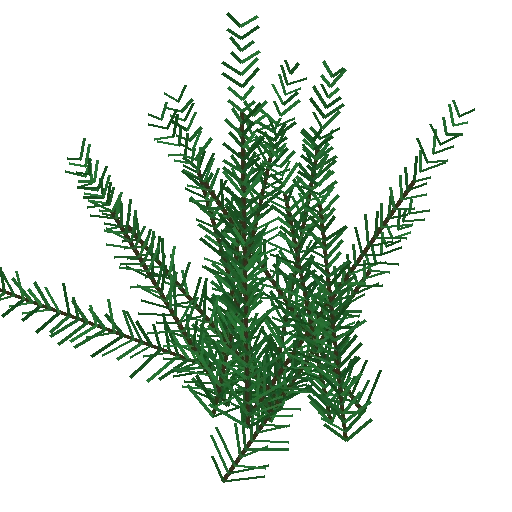
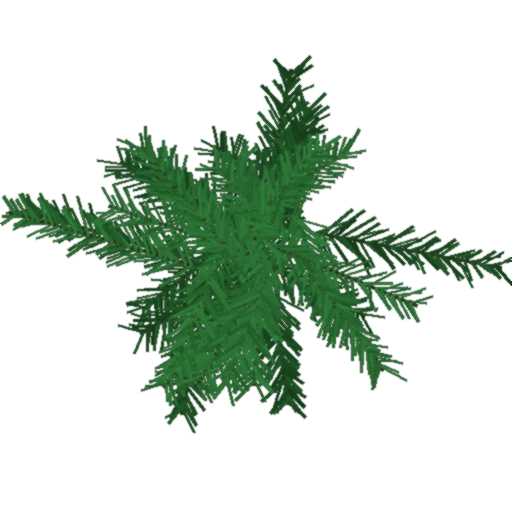
Pond water: scrolling ripple normals and planar reflection
The pond samples two crossing, scrolling copies of the baked ripple normal
map with a slow swell, Schlick fresnel and a tighter sun glint. On high
quality the scene is mirrored about the water plane into a half-resolution
target (oblique near-plane clipping keeps the koi out) and sampled with a
ripple offset; lower qualities keep the analytic sky reflection.

Denser pine needle pads so the cloud-pruned pines read as full foliage.

Claude-Session: https://claude.ai/code/session_01VunSHvn9KZnHupR5ohzNCD

Changed region(s): [[0.0, 0.0312, 1.0, 0.9375]]

diff --git a/src/game/garden.ts b/src/game/garden.ts
@@ -13,6 +13,17 @@ import { applySurface } from './surfaces';
 export type Solid = { x: number; z: number; r: number; h: number };
 
 const POND = { x: -21, z: -6, r: 4.4 };
+const UP = new THREE.Vector3(0, 1, 0);
+const RV2 = new THREE.Vector2();
+const RV4 = new THREE.Vector4();
+const RQ = new THREE.Vector4();
+const RP = new THREE.Vector3();
+const RC = new THREE.Vector3();
+const RL = new THREE.Vector3();
+const RM = new THREE.Matrix4();
+const RPL = new THREE.Plane();
+const flatNormal = new THREE.DataTexture(new Uint8Array([128, 128, 255, 255]), 1, 1);
+flatNormal.needsUpdate = true;
 const GROVE = { x: 24.5, z: -4 };
 
 function pondRadius(a: number) {
@@ -26,6 +37,8 @@ export class Garden {
   private koi: THREE.InstancedMesh;
   private koiData: { r: number; speed: number; ph: number; depth: number; wob: number }[] = [];
   private dummy = new THREE.Object3D();
+  private reflOn = false;
+  private refl: { target: THREE.WebGLRenderTarget; cam: THREE.PerspectiveCamera } | null = null;
 
   constructor(root: THREE.Object3D, atm: Atmos, windTime: { value: number }, isFree: (x: number, z: number, pad: number) => boolean) {
     this.water = this.buildPond(root, atm);
@@ -123,15 +136,22 @@ export class Garden {
           uSunDir: { value: new THREE.Vector3() },
           uSunCol: { value: new THREE.Color() },
           uCenter: { value: new THREE.Vector2(POND.x, POND.z) },
-          uRadius: { value: POND.r }
+          uRadius: { value: POND.r },
+          tNormal: { value: flatNormal },
+          tRefl: { value: null },
+          uRefl: { value: 0 },
+          uTexMat: { value: new THREE.Matrix4() }
         }
       ]),
       vertexShader: /* glsl */ `
         #include <fog_pars_vertex>
+        uniform mat4 uTexMat;
         varying vec3 vW;
+        varying vec4 vRefUv;
         void main() {
           vec4 w = modelMatrix * vec4(position, 1.0);
           vW = w.xyz;
+          vRefUv = uTexMat * vec4(position, 1.0);
           vec4 mvPosition = viewMatrix * w;
           gl_Position = projectionMatrix * mvPosition;
           #include <fog_vertex>
@@ -141,22 +161,34 @@ export class Garden {
         #include <fog_pars_fragment>
         uniform float uTime; uniform vec3 uZenith; uniform vec3 uHorizon; uniform vec3 uSunDir; uniform vec3 uSunCol;
         uniform vec2 uCenter; uniform float uRadius;
+        uniform sampler2D tNormal; uniform sampler2D tRefl; uniform float uRefl;
         varying vec3 vW;
+        varying vec4 vRefUv;
         void main() {
           vec2 p = vW.xz;
-          // two layers of travelling ripples -> perturbed normal
-          float w1 = sin(p.x * 3.1 + uTime * 1.4) * cos(p.y * 2.7 - uTime * 1.1);
-          float w2 = sin((p.x + p.y) * 5.3 - uTime * 2.2) * 0.5;
-          vec3 n = normalize(vec3(w1 * 0.07 + w2 * 0.04, 1.0, cos(p.x * 2.3 - uTime) * 0.06 + w2 * 0.03));
+          // two scrolling ripple maps crossing each other + a slow analytic swell
+          vec3 n1 = texture2D(tNormal, p * 0.42 + uTime * vec2(0.021, 0.013)).xyz * 2.0 - 1.0;
+          vec3 n2 = texture2D(tNormal, mat2(0.8, -0.6, 0.6, 0.8) * p * 0.71 - uTime * vec2(0.017, 0.026)).xyz * 2.0 - 1.0;
+          vec2 t = (n1.xy + n2.xy) * 0.5;
+          float sw = sin(p.x * 1.3 + uTime * 0.9) * cos(p.y * 1.1 - uTime * 0.7);
+          vec3 n = normalize(vec3(t.x * 0.55 + sw * 0.03, 1.0, t.y * 0.55));
           vec3 v = normalize(cameraPosition - vW);
-          float fres = pow(1.0 - max(dot(n, v), 0.0), 3.0);
+          float fres = 0.02 + 0.98 * pow(1.0 - max(dot(n, v), 0.0), 5.0);
           vec3 r = reflect(-v, n);
+          r.y = abs(r.y) + 0.002;
           vec3 sky = mix(uHorizon, uZenith, smoothstep(0.0, 0.6, r.y));
-          float spec = pow(max(dot(r, normalize(uSunDir)), 0.0), 420.0);
-          vec3 deep = vec3(0.02, 0.07, 0.07);
-          vec3 col = mix(deep, sky, 0.25 + fres * 0.6) + uSunCol * min(spec * 1.4, 1.2);
+          if (uRefl > 0.5) {
+            // mirrored scene, nudged by the ripples
+            vec4 ru = vRefUv;
+            ru.xy += n.xz * 0.06 * ru.w;
+            sky = texture2DProj(tRefl, ru).rgb;
+          }
+          float sd = max(dot(r, normalize(uSunDir)), 0.0);
+          float spec = pow(sd, 600.0) * 6.0 + pow(sd, 60.0) * 0.08;
+          vec3 deep = vec3(0.015, 0.05, 0.05);
+          vec3 col = mix(deep, sky, clamp(0.18 + fres * 0.9, 0.0, 1.0)) + uSunCol * min(spec, 2.0);
           float edge = length(p - uCenter) / uRadius;
-          float a = mix(0.5, 0.95, fres) * smoothstep(1.08, 0.9, edge);
+          float a = mix(0.55, 0.97, fres) * smoothstep(1.08, 0.9, edge);
           gl_FragColor = vec4(col, a);
           #include <tonemapping_fragment>
           #include <colorspace_fragment>
@@ -164,8 +196,13 @@ export class Garden {
         }
       `
     });
+    new THREE.TextureLoader().load(`${import.meta.env.BASE_URL}tex/water_n.webp`, (t) => {
+      t.wrapS = t.wrapT = THREE.RepeatWrapping;
+      mat.uniforms.tNormal.value = t;
+    });
     const water = new THREE.Mesh(new THREE.ShapeGeometry(shape, 12).rotateX(-Math.PI / 2), mat);
     water.position.set(POND.x, 0.14, POND.z);
+    water.onBeforeRender = (renderer, scene, camera) => this.renderReflection(renderer, scene, camera as THREE.PerspectiveCamera);
     water.renderOrder = 4;
     root.add(water);
     this.solids.push({ x: POND.x, z: POND.z, r: POND.r - 0.2, h: 6 });
@@ -429,6 +466,70 @@ export class Garden {
   }
 
   // ---------------------------------------------------------------------------
+  // Planar reflection (high quality): the scene mirrored about the water plane,
+  // rendered at half resolution just before the pond itself is drawn. Oblique
+  // near-plane clipping keeps the koi and pond bed out of the mirror.
+  setReflections(on: boolean) {
+    this.reflOn = on;
+    this.waterU.uRefl.value = 0;
+    if (!on && this.refl) {
+      this.refl.target.dispose();
+      this.refl = null;
+    }
+  }
+
+  private renderReflection(renderer: THREE.WebGLRenderer, scene: THREE.Scene, camera: THREE.PerspectiveCamera) {
+    if (!this.reflOn || !camera.isPerspectiveCamera) return;
+    const size = renderer.getDrawingBufferSize(RV2);
+    const w = Math.max(64, Math.floor(size.x / 2));
+    const h = Math.max(64, Math.floor(size.y / 2));
+    if (!this.refl) {
+      this.refl = { target: new THREE.WebGLRenderTarget(w, h, { type: THREE.HalfFloatType }), cam: new THREE.PerspectiveCamera() };
+    } else if (this.refl.target.width !== w || this.refl.target.height !== h) this.refl.target.setSize(w, h);
+    const { target, cam } = this.refl;
+    const water = this.water;
+    RP.setFromMatrixPosition(water.matrixWorld);
+    RC.setFromMatrixPosition(camera.matrixWorld);
+    if (RC.y <= RP.y) return;
+    // mirror the camera position and its look direction about the plane y = RP.y
+    RM.extractRotation(camera.matrixWorld);
+    RL.set(0, 0, -1).applyMatrix4(RM).add(RC);
+    cam.position.set(RC.x, 2 * RP.y - RC.y, RC.z);
+    cam.up.set(0, 1, 0).applyMatrix4(RM).reflect(UP);
+    cam.lookAt(RL.x, 2 * RP.y - RL.y, RL.z);
+    cam.far = camera.far;
+    cam.near = camera.near;
+    cam.updateMatrixWorld();
+    cam.projectionMatrix.copy(camera.projectionMatrix);
+    const tm = this.waterU.uTexMat.value as THREE.Matrix4;
+    tm.set(0.5, 0, 0, 0.5, 0, 0.5, 0, 0.5, 0, 0, 0.5, 0.5, 0, 0, 0, 1);
+    tm.multiply(cam.projectionMatrix).multiply(cam.matrixWorldInverse).multiply(water.matrixWorld);
+    // oblique clip plane (Lengyel) so nothing below the surface is reflected
+    RPL.setFromNormalAndCoplanarPoint(UP, RP).applyMatrix4(cam.matrixWorldInverse);
+    RV4.set(RPL.normal.x, RPL.normal.y, RPL.normal.z, RPL.constant);
+    const e = cam.projectionMatrix.elements;
+    RQ.set((Math.sign(RV4.x) + e[8]) / e[0], (Math.sign(RV4.y) + e[9]) / e[5], -1, (1 + e[10]) / e[14]);
+    RV4.multiplyScalar(2 / RV4.dot(RQ));
+    e[2] = RV4.x;
+    e[6] = RV4.y;
+    e[10] = RV4.z + 1 - 0.003;
+    e[14] = RV4.w;
+
+    const prevTarget = renderer.getRenderTarget();
+    const prevShadow = renderer.shadowMap.autoUpdate;
+    water.visible = false;
+    renderer.shadowMap.autoUpdate = false;
+    renderer.setRenderTarget(target);
+    renderer.state.buffers.depth.setMask(true);
+    if (renderer.autoClear === false) renderer.clear();
+    renderer.render(scene, cam);
+    renderer.shadowMap.autoUpdate = prevShadow;
+    renderer.setRenderTarget(prevTarget);
+    water.visible = true;
+    this.waterU.tRefl.value = target.texture;
+    this.waterU.uRefl.value = 1;
+  }
+
   syncWater(atm: Atmos) {
     const u = (this.water?.material as THREE.ShaderMaterial | undefined)?.uniforms;
     if (!u) return;

diff --git a/src/game/postfx.ts b/src/game/postfx.ts
@@ -20,15 +20,16 @@ export interface QualityProfile {
   ink: boolean;
   rays: boolean;
   mistLayers: number;
+  reflections: boolean;
 }
 
 export function qualityProfile(q: Quality): QualityProfile {
   const dpr = window.devicePixelRatio || 1;
   if (q === 'high')
-    return { pixelRatio: Math.min(dpr, 2), composer: true, msaa: 4, shadowMap: 2048, softShadows: true, bloom: true, grassDensity: 1, ambientParticles: 1, ink: true, rays: true, mistLayers: 2 };
+    return { pixelRatio: Math.min(dpr, 2), composer: true, msaa: 4, shadowMap: 2048, softShadows: true, bloom: true, grassDensity: 1, ambientParticles: 1, ink: true, rays: true, mistLayers: 2, reflections: true };
   if (q === 'medium')
-    return { pixelRatio: Math.min(dpr, 1.35), composer: true, msaa: 2, shadowMap: 1024, softShadows: true, bloom: true, grassDensity: 0.6, ambientParticles: 0.7, ink: true, rays: false, mistLayers: 1 };
-  return { pixelRatio: 1, composer: false, msaa: 0, shadowMap: 1024, softShadows: false, bloom: false, grassDensity: 0, ambientParticles: 0.4, ink: false, rays: false, mistLayers: 0 };
+    return { pixelRatio: Math.min(dpr, 1.35), composer: true, msaa: 2, shadowMap: 1024, softShadows: true, bloom: true, grassDensity: 0.6, ambientParticles: 0.7, ink: true, rays: false, mistLayers: 1, reflections: false };
+  return { pixelRatio: 1, composer: false, msaa: 0, shadowMap: 1024, softShadows: false, bloom: false, grassDensity: 0, ambientParticles: 0.4, ink: false, rays: false, mistLayers: 0, reflections: false };
 }
 
 export function detectQuality(): Quality {

diff --git a/src/game/world.ts b/src/game/world.ts
@@ -714,7 +714,7 @@ export class World {
           }
         }
         const canopy = pads.reduce((acc, l) => acc.add(l.c), new THREE.Vector3()).divideScalar(pads.length);
-        pineCards.push(foliageCards(pads, canopy, 20, [0.85, 1.25], pineTint, rng, 0.75));
+        pineCards.push(foliageCards(pads, canopy, 30, [1.0, 1.45], pineTint, rng, 0.7));
       }
       this.addSolid(x, z, 0.7, 9);
     }
@@ -1108,6 +1108,7 @@ export class World {
       (this.grass.material as THREE.Material).needsUpdate = true;
     }
     this.petalQuality = p.ambientParticles;
+    this.garden.setReflections(p.reflections);
     this.mist.forEach((m, i) => (m.visible = i < p.mistLayers));
     this.petals.count = Math.floor(this.petalMax * p.ambientParticles);
     const lights = p.composer ? (p.shadowMap >= 2048 ? 4 : 2) : 0;

diff --git a/scripts/bake_textures.py b/scripts/bake_textures.py
@@ -310,21 +310,24 @@ def pine_card():
     img = Image.new('RGBA', (S, S), (0, 0, 0, 0))
     d = ImageDraw.Draw(img)
     r = np.random.default_rng(92)
-    # a spray: central twig with needle bundles radiating along it
-    for b in range(13):
-        a0 = -math.pi / 2 + r.normal(0, 0.5)
-        x0, y0 = S / 2 + r.normal(0, 40), S * 0.8 + r.normal(0, 30)
-        L = r.uniform(220, 320)
-        x1, y1 = x0 + math.cos(a0) * L, y0 + math.sin(a0) * L
-        d.line([(x0, y0), (x1, y1)], fill=(58, 44, 30, 255), width=4)
-        for k in range(34):
-            t = k / 26
-            bx, by = x0 + (x1 - x0) * t, y0 + (y1 - y0) * t
-            for side in (-1, 1):
-                na = a0 + side * r.uniform(0.5, 1.1)
-                nl = r.uniform(26, 46) * (1 - t * 0.4)
-                g = int(r.uniform(70, 120))
-                d.line([(bx, by), (bx + math.cos(na) * nl, by + math.sin(na) * nl)], fill=(int(g * 0.35), g, int(g * 0.45), 255), width=3)
+    # a dense cloud-pruned pad: twigs fanning out, each thick with needle bundles;
+    # darker needles first so the outer layer reads lighter
+    for layer in range(2):
+        for b in range(16):
+            a0 = r.uniform(0, 2 * math.pi)
+            L = r.uniform(120, 210)
+            x0, y0 = S / 2 + r.normal(0, 25), S / 2 + r.normal(0, 25)
+            x1, y1 = x0 + math.cos(a0) * L, y0 + math.sin(a0) * L * 0.8
+            d.line([(x0, y0), (x1, y1)], fill=(52, 40, 28, 255), width=4)
+            for k in range(30):
+                t = k / 30
+                bx, by = x0 + (x1 - x0) * t, y0 + (y1 - y0) * t
+                for side in (-1, 1):
+                    na = a0 + side * r.uniform(0.35, 1.0)
+                    nl = r.uniform(24, 44) * (1 - t * 0.35)
+                    g = int(r.uniform(58, 92) + layer * 34)
+                    d.line([(bx, by), (bx + math.cos(na) * nl, by + math.sin(na) * nl)], fill=(int(g * 0.38), g, int(g * 0.46), 255), width=3)
+    img = img.filter(ImageFilter.SMOOTH)
     bleed(img).save(os.path.join(OUT, 'pine_card.webp'), quality=90, method=6)
 
 
